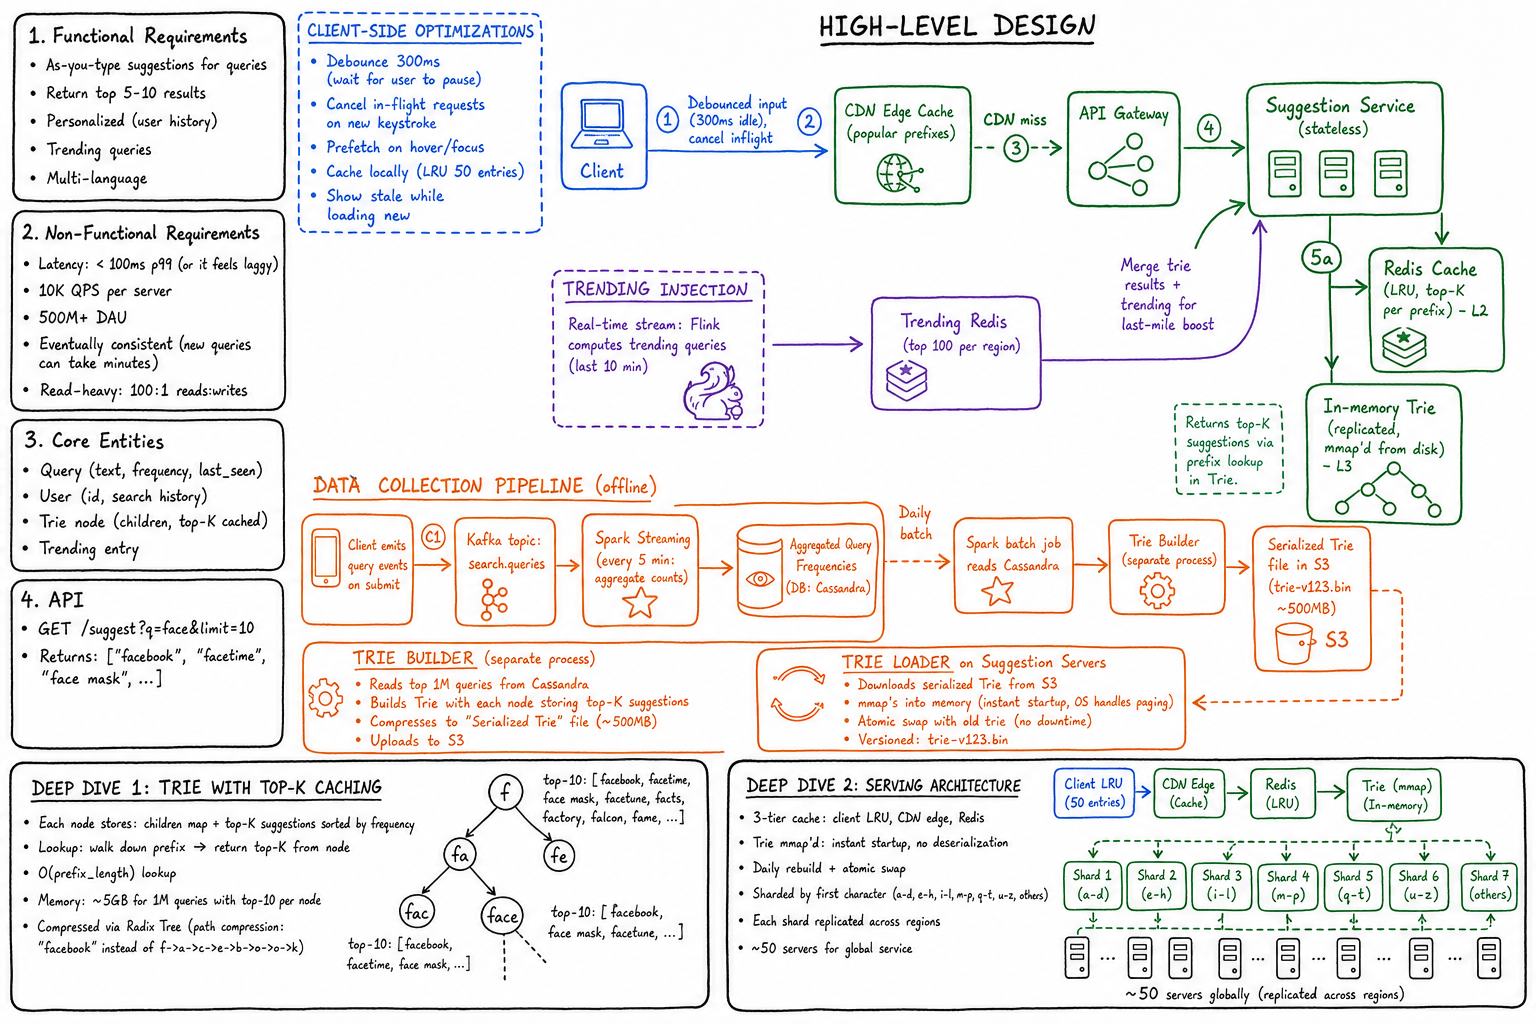
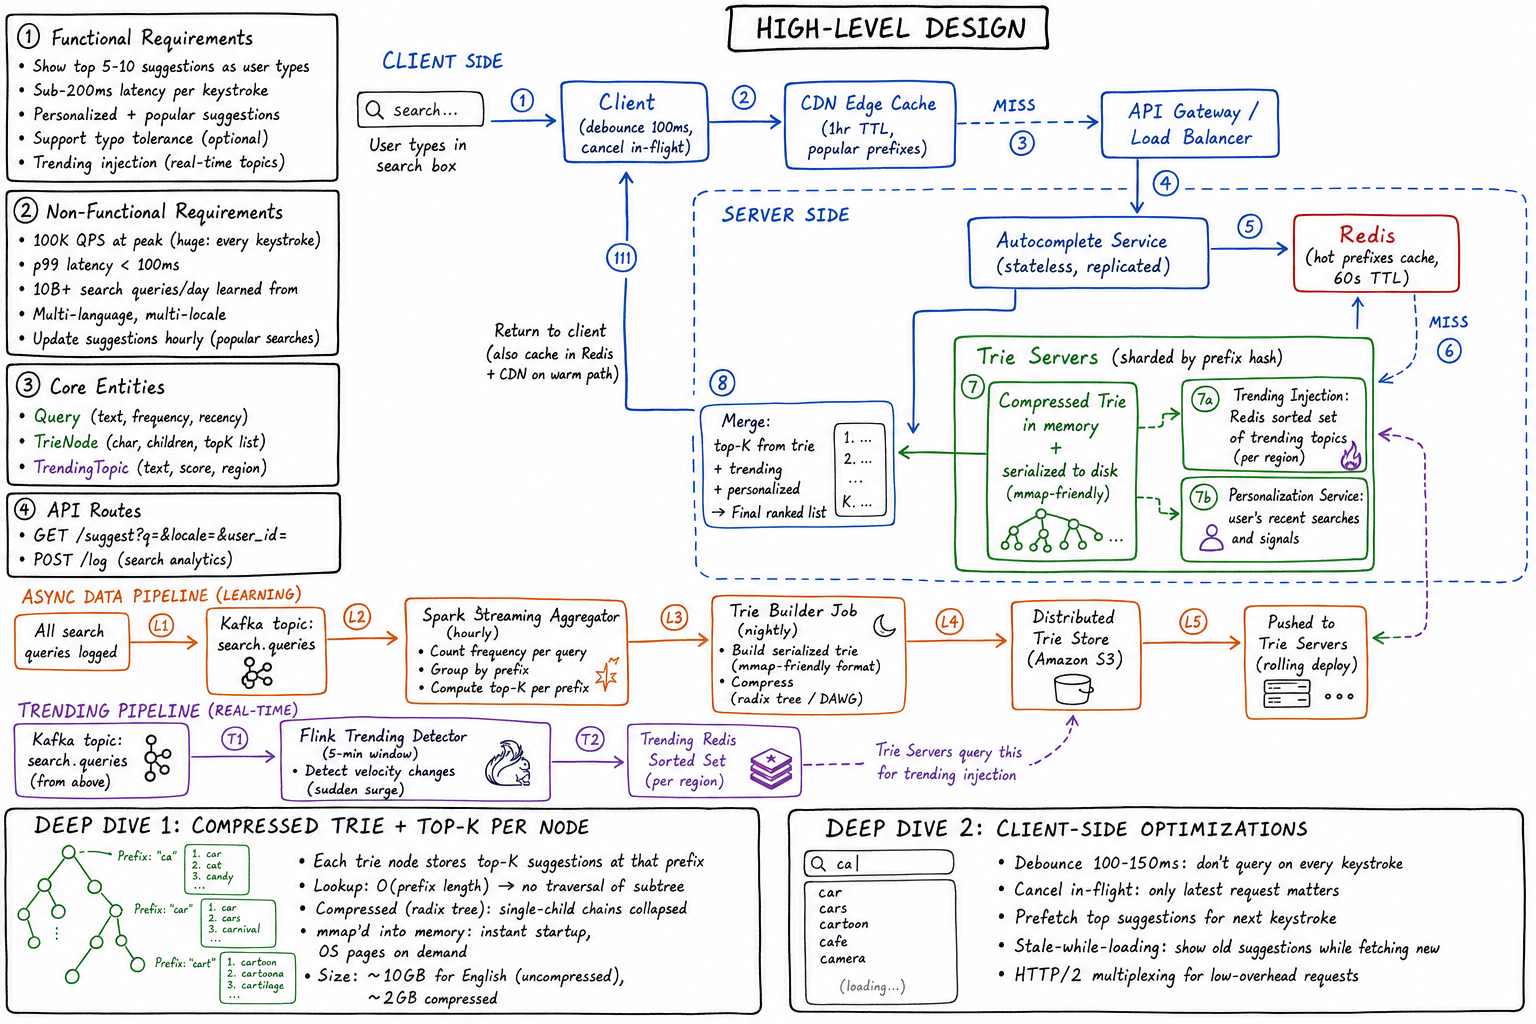
Add detailed whiteboard diagrams to Search Autocomplete HLD

Changed region(s): [[0.0, 0.0, 1.0, 1.0], [0.9375, 0.7188, 0.9688, 0.75]]

diff --git a/docs/cheatsheets/hld/search-autocomplete.html b/docs/cheatsheets/hld/search-autocomplete.html
@@ -127,6 +127,11 @@ User types "fac"
 </section>
 
 <!-- 04 -->
+<div class="diagram">
+  <img src="img/search-trie-zoom.png" alt="Trie with Top-K caching and compressed storage zoom-in">
+</div>
+<p class="diagram-caption">Zoom-in: Standard vs Optimized Trie (top-K cached at each node = O(prefix length) lookup), Radix Tree / DAWG compression with size comparison, memory-mapped file (mmap) loading mechanics, sharding strategy, and read-only update strategy via atomic symlink swap.</p>
+
 <section id="trie">
   <h2>04 &mdash; Trie Data Structure</h2>
 
@@ -278,6 +283,11 @@ Longer prefixes (5+ chars): lower hit rate but fewer requests reach here
 </section>
 
 <!-- 09 -->
+<div class="diagram">
+  <img src="img/search-clientopt-zoom.png" alt="Client-side optimizations and trending injection zoom-in">
+</div>
+<p class="diagram-caption">Zoom-in: client-side optimizations (debouncing, cancel in-flight, stale-while-revalidate, prefetching) with full timeline. Trending injection pipeline (Flink z-score detector &rarr; Redis ZSET &rarr; query-time merge). Personalization layer with privacy considerations.</p>
+
 <section id="client">
   <h2>09 &mdash; Client-Side Optimisations</h2>
   <div class="card">